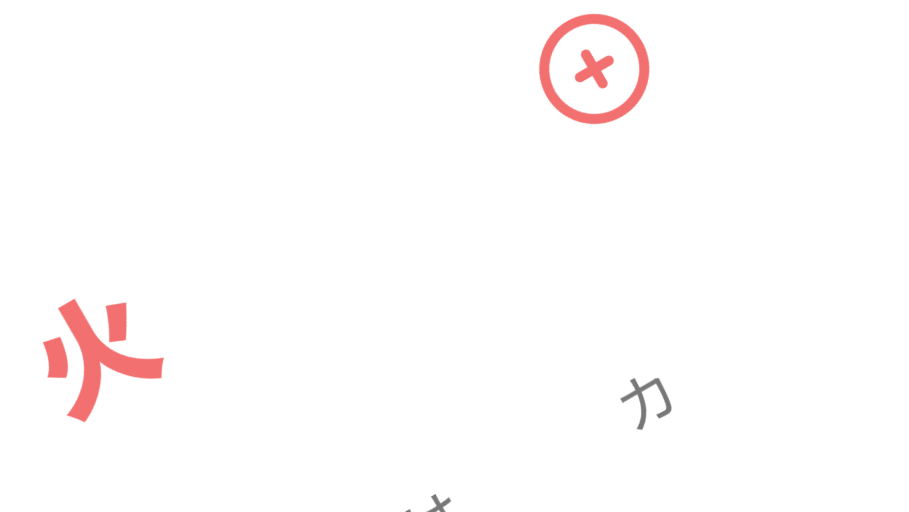
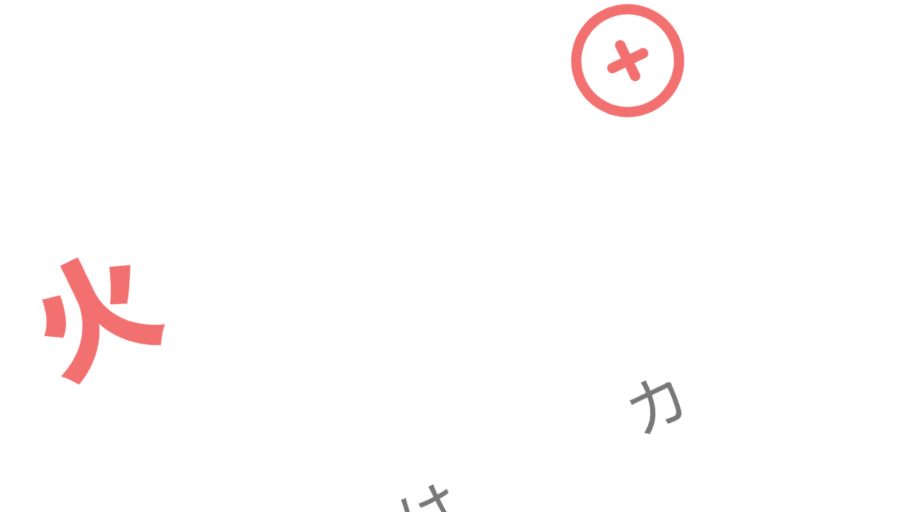
Refactor: Implementasi semantic HTML pada komponen Landing Page

diff --git a/frontend/src/components/landing/Navbar.jsx b/frontend/src/components/landing/Navbar.jsx
@@ -1,37 +1,43 @@
-import { Link, NavLink } from "react-router";
+import { Link as RouterLink } from "react-router";
+import { Link as ScrollLink } from "react-scroll";
 import logoImg from "../../assets/logo.png";
 
 export default function Navbar() {
   return (
-    <div className="flex justify-center my-7 sticky top-7 z-50">
-      <div className="navbar flex flex-row justify-around w-7xl h-16 items-center rounded-full border border-my-border bg-transparent backdrop-blur-md top-0 shadow-[0_8px_8px_rgba(0,0,0,0.4)]">
-        <Link to="/" className="logo">
+    <header className="flex justify-center my-7 sticky top-7 z-50">
+      <nav className="navbar flex flex-row justify-around w-7xl h-16 items-center rounded-full border border-my-border bg-transparent backdrop-blur-md top-0 shadow-[0_8px_8px_rgba(0,0,0,0.4)]">
+        <RouterLink to="/" className="logo">
           <img src={logoImg} alt="okanji Logo" className="h-10 w-auto" />
-        </Link>
+        </RouterLink>
         <div className="nav">
           <ul className="flex gap-6">
             <li className="">
-              <NavLink to="/" className="text-secondary">
+              <ScrollLink to="hero" className="text-secondary-dark cursor-pointer" activeClass="!text-secondary font-bold" spy={true} smooth={true} offset={-200} duration={500}>
                 Home
-              </NavLink>
+              </ScrollLink>
             </li>
             <li className="">
-              <NavLink to="/" className="text-secondary-dark">
-                About
-              </NavLink>
-            </li>
-            <li className="">
-              <NavLink to="/" className="text-secondary-dark">
+              <ScrollLink to="cards" className="text-secondary-dark cursor-pointer" activeClass="!text-secondary font-bold" spy={true} smooth={true} offset={-240} duration={500}>
                 Services
-              </NavLink>
+              </ScrollLink>
+            </li>
+            <li className="">
+              <ScrollLink to="features" className="text-secondary-dark cursor-pointer" activeClass="!text-secondary font-bold" spy={true} smooth={true} offset={-200} duration={500}>
+                Features
+              </ScrollLink>
+            </li>
+            <li className="">
+              <ScrollLink to="about" className="text-secondary-dark cursor-pointer" activeClass="!text-secondary font-bold" spy={true} smooth={true} offset={-200} duration={500}>
+                About
+              </ScrollLink>
             </li>
           </ul>
         </div>
         <div className="btn-cta flex items-center">
           <div className="red-dot bg-primary w-2 h-2 mx-5 rounded-full"></div>
-          <NavLink>Get Started</NavLink>
+          <RouterLink>Get Started</RouterLink>
         </div>
-      </div>
-    </div>
+      </nav>
+    </header>
   );
 }

diff --git a/frontend/src/components/landing/Card.jsx b/frontend/src/components/landing/Card.jsx
@@ -1,11 +1,11 @@
 export default function Card({ title, description, icon }) {
   return (
-    <div className="bg-background-lighter/50 p-8 rounded-3xl h-60 border border-my-border shadow-[0_8px_8px_rgba(0,0,0,0.4)] backdrop-blur-xl transition-all duration-500 hover:-translate-y-2 hover:border-primary/50 hover:shadow-[0_8px_20px_rgba(243,78,78,0.2)]">
+    <article className="bg-background-lighter/50 p-8 rounded-3xl h-60 border border-my-border shadow-[0_8px_8px_rgba(0,0,0,0.4)] backdrop-blur-xl transition-all duration-500 hover:-translate-y-2 hover:border-primary/50 hover:shadow-[0_8px_20px_rgba(243,78,78,0.2)]">
       <div className="w-12 h-12 rounded-xl flex items-center justify-center mb-6">
         <img src={icon} alt={title} className="w-8 h-8 " />
       </div>
       <h3 className="text-xl font-bold mb-2">{title}</h3>
       <p className="text-secondary-dark">{description}</p>
-    </div>
+    </article>
   );
 }

diff --git a/frontend/src/components/landing/Cards.jsx b/frontend/src/components/landing/Cards.jsx
@@ -26,13 +26,13 @@ export default function Cards() {
     },
   ];
   return (
-    <div className="flex justify-center max-w-7xl mx-auto px-4 py-20 relative z-10 mb-80">
+    <section className="flex justify-center max-w-7xl mx-auto px-4 py-20 relative z-10 mb-80" id="cards">
       <div className="grid grid-cols-1 md:grid-cols-3 gap-8 animate-fade-up [animation-delay:1400ms] opacity-0 relative z-10">
         {cards.map((card) => (
           <Card key={card.id} title={card.title} description={card.description} icon={card.icon} />
         ))}
       </div>
       <div className="absolute top-1/2 left-1/2 -translate-x-1/2 -translate-y-1/2 w-[600px] h-[500px] bg-primary/30 rounded-full z-0 blur-[120px]"></div>
-    </div>
+    </section>
   );
 }

diff --git a/frontend/src/components/landing/Feature.jsx b/frontend/src/components/landing/Feature.jsx
@@ -1,6 +1,6 @@
 export default function Feature({ title, description, image, isReversed }) {
   return (
-    <div className={`flex flex-col md:flex-row items-center gap-12 py-16 ${isReversed ? "md:flex-row-reverse" : ""}`}>
+    <article className={`flex flex-col md:flex-row items-center gap-12 py-16 ${isReversed ? "md:flex-row-reverse" : ""}`}>
       <div className="w-full md:w-1/2">
         <h3 className={`text-3xl font-bold mb-4  ${isReversed ? "text-right" : ""}`}>{title}</h3>
         <p className={`text-lg text-secondary-dark leading-relaxed ${isReversed ? "text-right" : ""}`}>{description}</p>
@@ -18,6 +18,6 @@ export default function Feature({ title, description, image, isReversed }) {
   }`}
         />
       </div>
-    </div>
+    </article>
   );
 }

diff --git a/frontend/src/components/landing/Features.jsx b/frontend/src/components/landing/Features.jsx
@@ -29,7 +29,7 @@ export default function Features() {
   ];
 
   return (
-    <div className="flex flex-col justify-center items-center max-w-7xl mx-auto py-20">
+    <section className="flex flex-col justify-center items-center max-w-7xl mx-auto py-20" id="features">
       <h2 className="text-4xl md:text-5xl font-bold tracking-tight mb-4 text-center">
         Everything you need to actually <br />
         <span className="text-primary">remember</span> kanji.
@@ -39,6 +39,6 @@ export default function Features() {
         <Feature key={feature.id} title={feature.title} description={feature.description} isReversed={feature.isReversed} image={feature.image} />
       ))}
       {/* </div> */}
-    </div>
+    </section>
   );
 }

diff --git a/frontend/src/components/landing/Hero.jsx b/frontend/src/components/landing/Hero.jsx
@@ -2,7 +2,7 @@ import { NavLink } from "react-router";
 
 export default function Hero() {
   return (
-    <div className="hero flex justify-center items-center min-h-[70vh] relative">
+    <section className="flex justify-center items-center min-h-[70vh] relative" id="hero">
       <div className="w-7xl text-center flex flex-col items-center">
         <h1 className="text-5xl md:text-7xl font-bold tracking-tight leading-[1.1] mb-4 z-10 relative">
           <span className="text-primary animate-fade-up [animation-delay:600ms] opacity-0 inline-block">Finally</span>
@@ -21,6 +21,6 @@ export default function Hero() {
           Let's Begin
         </NavLink>
       </div>
-    </div>
+    </section>
   );
 }

diff --git a/frontend/src/pages/LandingPage.jsx b/frontend/src/pages/LandingPage.jsx
@@ -5,11 +5,11 @@ import Navbar from "../components/landing/Navbar";
 
 export default function LandingPage() {
   return (
-    <div className="h-[2000px]">
+    <main className="min-h-screen bg-background text-white">
       <Navbar />
       <Hero />
       <Cards />
       <Features />
-    </div>
+    </main>
   );
 }